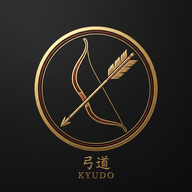
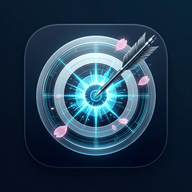
説明メッセージ

diff --git a/app.py b/app.py
@@ -201,7 +201,7 @@ cleanup_residual_files()
 
 # ページ基本設定
 st.set_page_config(
-    page_title="弓道AI道場 - Kyudo AI Chat",
+    page_title="YUMIQA｜AI弓道分析",
     page_icon="🏹",
     layout="wide",
     initial_sidebar_state="expanded"
@@ -209,15 +209,15 @@ st.set_page_config(
 
 # ── PWA メタタグ＆ServiceWorker注入（ホーム画面追加・スプラッシュ対応） ──
 st.html("""
-<link rel="manifest" href="/app/static/manifest.json?v=2">
+<link rel="manifest" href="/app/static/manifest.json?v=3">
 <meta name="mobile-web-app-capable" content="yes">
 <meta name="apple-mobile-web-app-capable" content="yes">
 <meta name="apple-mobile-web-app-status-bar-style" content="black-translucent">
-<meta name="apple-mobile-web-app-title" content="射心">
-<meta name="application-name" content="射心">
-<meta name="theme-color" content="#1B365D">
-<link rel="icon" type="image/png" href="/app/static/icon-192.png?v=2">
-<link rel="apple-touch-icon" href="/app/static/icon-192.png?v=2">
+<meta name="apple-mobile-web-app-title" content="YUMIQA">
+<meta name="application-name" content="YUMIQA">
+<meta name="theme-color" content="#101D35">
+<link rel="icon" type="image/png" href="/app/static/icon-192.png?v=3">
+<link rel="apple-touch-icon" href="/app/static/icon-192.png?v=3">
 <meta name="viewport" content="width=device-width, initial-scale=1, viewport-fit=cover">
 <script>
 (function() {
@@ -231,8 +231,8 @@ st.html("""
             try { el.parentNode.removeChild(el); } catch(e) {}
         });
 
-        // 射心アプリアイコン・ファビコン
-        var iconUrl = '/app/static/icon-192.png?v=2';
+        // YUMIQA アプリアイコン・ファビコン
+        var iconUrl = '/app/static/icon-192.png?v=3';
         var fav = pDoc.createElement('link');
         fav.rel = 'icon';
         fav.type = 'image/png';
@@ -247,18 +247,18 @@ st.html("""
         // 新しい Manifest を <head> の先頭に挿入
         var manifestLink = pDoc.createElement('link');
         manifestLink.rel = 'manifest';
-        manifestLink.href = '/app/static/manifest.json?v=2';
+        manifestLink.href = '/app/static/manifest.json?v=3';
         pDoc.head.insertBefore(manifestLink, pDoc.head.firstChild);
 
-        pDoc.title = '射心 Kyudo AI';
+        pDoc.title = 'YUMIQA｜AI弓道分析';
 
         var metaTags = [
             { name: 'mobile-web-app-capable', content: 'yes' },
             { name: 'apple-mobile-web-app-capable', content: 'yes' },
             { name: 'apple-mobile-web-app-status-bar-style', content: 'black-translucent' },
-            { name: 'apple-mobile-web-app-title', content: '射心' },
-            { name: 'application-name', content: '射心' },
-            { name: 'theme-color', content: '#1B365D' }
+            { name: 'apple-mobile-web-app-title', content: 'YUMIQA' },
+            { name: 'application-name', content: 'YUMIQA' },
+            { name: 'theme-color', content: '#101D35' }
         ];
 
         metaTags.forEach(function(tag) {
@@ -271,7 +271,7 @@ st.html("""
         });
 
         if ('serviceWorker' in navigator) {
-            navigator.serviceWorker.register('/app/static/sw.js?v=2').catch(function(e){});
+            navigator.serviceWorker.register('/app/static/sw.js?v=3').catch(function(e){});
         }
     }
     setupPWA();
@@ -1412,7 +1412,7 @@ div[data-testid="stBottomBlockContainer"] {
 }
 /* 注意書きを入力欄のすぐ下に配置 */
 div[data-testid="stBottomBlockContainer"]::after {
-    content: "射心AIの助言は稽古の参考情報です。道場の先生・師範のご指導もあわせてご確認ください。";
+    content: "YUMIQAの助言は稽古の参考情報です。道場の先生・師範のご指導もあわせてご確認ください。";
     display: block; text-align: center; font-size: 11.5px; line-height: 1.5;
     color: var(--ink-secondary); padding: 8px 0 2px;
 }
@@ -2435,7 +2435,7 @@ def save_current_session(session_id: str, messages: list, custom_title: str = No
 def export_session_to_text(messages: list) -> str:
     """会話履歴を読みやすいテキスト・Markdownに整形"""
     output = []
-    output.append("# 🏹 弓道AI道場 稽古録\n")
+    output.append("# 🏹 YUMIQA 稽古録\n")
     output.append(f"記録日時: {time.strftime('%Y年%m月%d日 %H:%M')}\n")
     output.append("=" * 45 + "\n")
     
@@ -2654,11 +2654,11 @@ def render_login_screen(slot=None):
     with col_center:
         st.markdown(f"""
         <div class="login-wrap">
-            <div class="mato-emblem" style="width: 52px; height: 52px; border-radius: 50%; background: var(--surface-2); border: 1px solid var(--border-hairline); display: flex; align-items: center; justify-content: center; color: var(--shu); margin: 0 auto 16px; box-shadow: var(--shadow-sm);">
-                {get_mato_svg(28)}
+            <div class="mato-emblem" style="width: 56px; height: 56px; border-radius: 12px; overflow: hidden; margin: 0 auto 16px; box-shadow: var(--shadow-md);">
+                <img src="/app/static/icon-192.png?v=3" style="width: 100%; height: 100%; object-fit: cover;" alt="YUMIQA">
             </div>
-            <div class="login-title">弓道AI「射心」</div>
-            <div class="login-subtitle">{"アカウントにログインして、稽古を続けましょう。" if is_login else "アカウントを作成して、稽古の記録を残しましょう。"}</div>
+            <div class="login-title">YUMIQA</div>
+            <div class="login-subtitle">{"その一射に、次の成長を。AI弓道分析" if is_login else "アカウントを作成して、射の分析と記録を始めましょう。"}</div>
         </div>
         """, unsafe_allow_html=True)
 
@@ -2891,15 +2891,15 @@ def _hist_show_less():
 # ==================== 弓道AI道場 ナビゲーション（Linear / Apple Pro スタイル） ====================
 with st.sidebar:
 
-    # ── ブランドヘッダー（的ロゴ + 射心 Kyudo AI）：JSでサイドバーヘッダーに移動 ───
+    # ── ブランドヘッダー（YUMIQA アイコン + YUMIQA｜AI弓道分析）：JSでサイドバーヘッダーに移動 ───
     st.markdown(f"""
-    <div id="kyudo-sidebar-brand" style="display: flex; align-items: center; gap: 10px; padding: 6px 4px 14px 4px;">
-        <div style="width: 34px; height: 34px; border-radius: 50%; background: var(--surface-2); border: 1px solid var(--border-hairline); display: flex; align-items: center; justify-content: center; flex-shrink: 0; box-shadow: var(--shadow-sm);">
-            {get_mato_svg(20)}
+    <div id="kyudo-sidebar-brand" style="display: flex; align-items: center; gap: 8px; padding: 6px 4px 14px 4px;">
+        <div style="width: 26px; height: 26px; border-radius: 6px; overflow: hidden; display: flex; align-items: center; justify-content: center; flex-shrink: 0; box-shadow: var(--shadow-sm);">
+            <img src="/app/static/icon-192.png?v=3" style="width: 100%; height: 100%; object-fit: cover;" alt="YUMIQA">
         </div>
         <div>
-            <div class="sb-brand-name">射心 Kyudo AI</div>
-            <span class="sb-brand-tag">弓道専門指導 AI</span>
+            <div class="sb-brand-name">YUMIQA</div>
+            <span class="sb-brand-tag">AI弓道分析</span>
         </div>
     </div>
     <script>
@@ -3107,7 +3107,7 @@ with st.sidebar:
         st.markdown(f"""
         <div style="border: 1px solid var(--border-hairline); border-radius: 12px; padding: 14px 16px; margin-bottom: 12px; background: var(--surface-2);">
             <div style="display: flex; justify-content: space-between; align-items: center; margin-bottom: 8px;">
-                <span style="background: var(--primary-container); color: var(--on-primary-container); border: 1px solid var(--border-subtle); font-weight: 700; font-size: 10.5px; padding: 2px 8px; border-radius: 6px; letter-spacing: 0.08em;">射心 PRO</span>
+                <span style="background: var(--primary-container); color: var(--on-primary-container); border: 1px solid var(--border-subtle); font-weight: 700; font-size: 10.5px; padding: 2px 8px; border-radius: 6px; letter-spacing: 0.08em;">YUMIQA PRO</span>
                 <span style="font-size: 11px; font-weight: 600; color: #2E6F40;">● 稼働中</span>
             </div>
             <div style="font-size: 15px; font-weight: 700; color: var(--ink-primary); margin: 2px 0;">{disp_name}</div>
@@ -3941,7 +3941,7 @@ with st.container(key="topbar"):
     with col_tb1:
         _cur_c_tb = st.session_state.get("current_selected_char", list(CHARACTERS.keys())[0])
         _cur_inf_tb = CHARACTERS.get(_cur_c_tb, list(CHARACTERS.values())[0])
-        with st.popover(f"🏹 射心 · {_cur_c_tb.split('（')[0]}", use_container_width=False):
+        with st.popover(f"🏹 YUMIQA · {_cur_c_tb.split('（')[0]}", use_container_width=False):
             st.caption("指導陣（AIモデル）を選択")
             for cname, c_info_item in CHARACTERS.items():
                 st.button(
